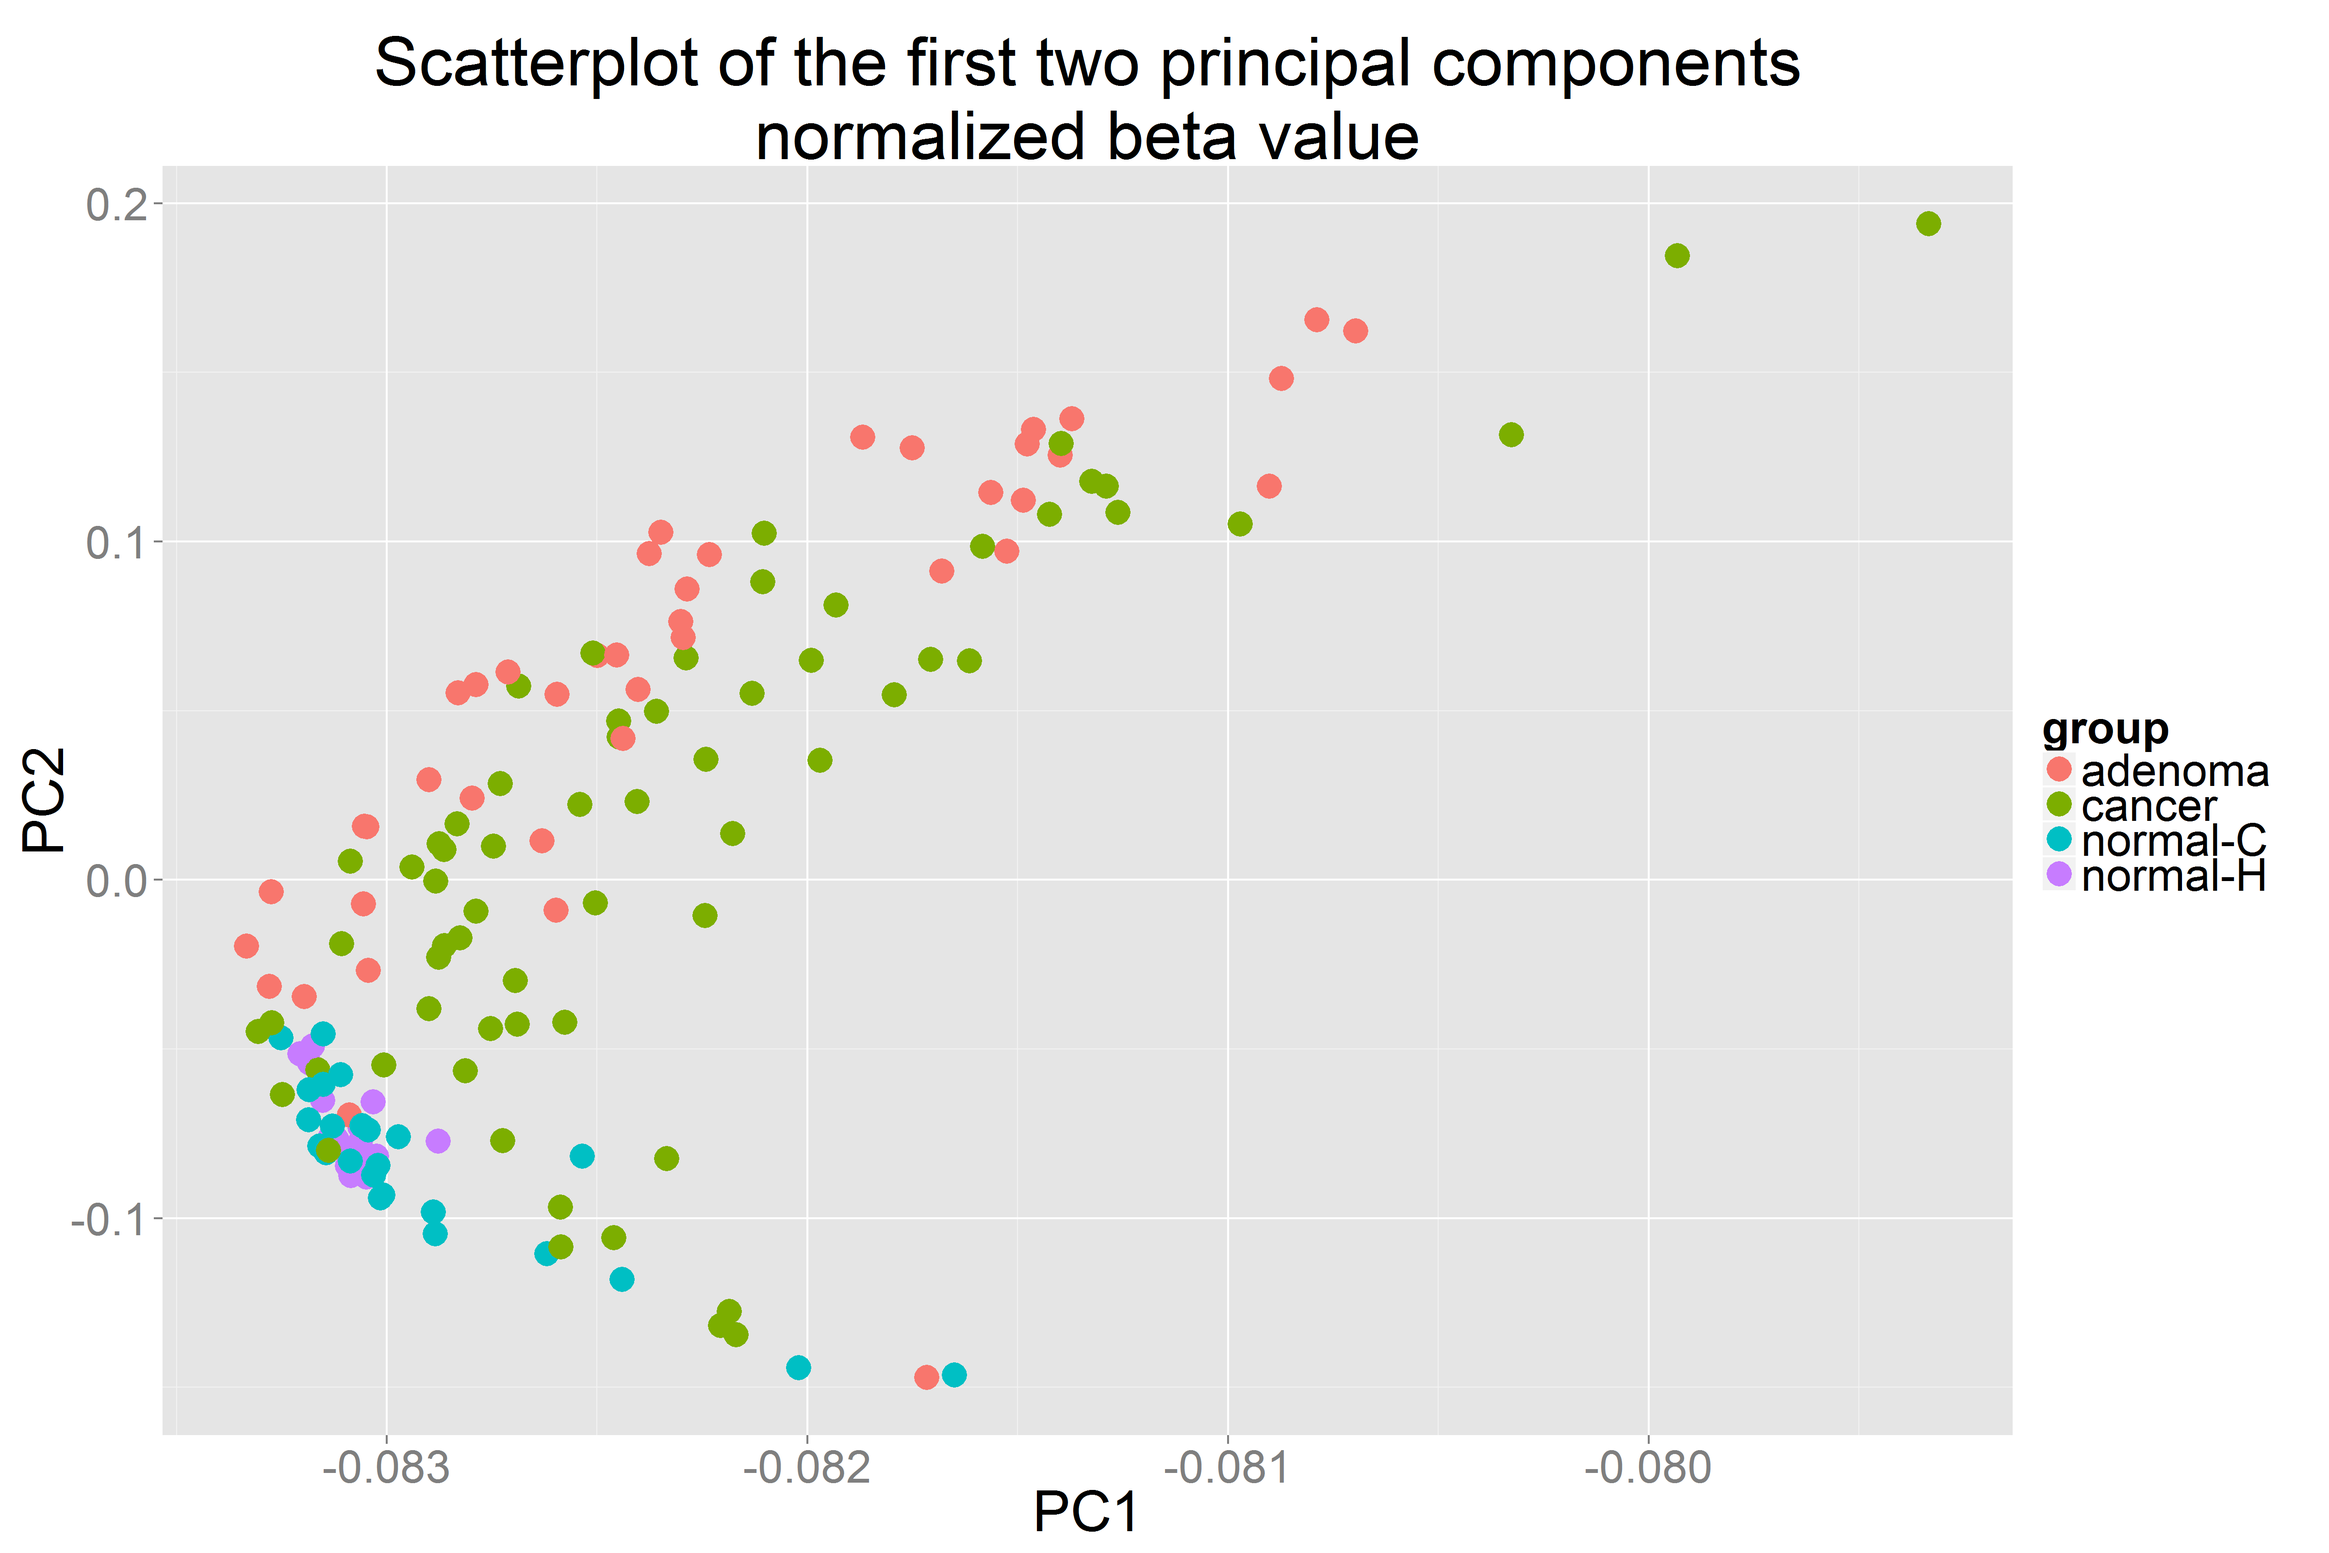
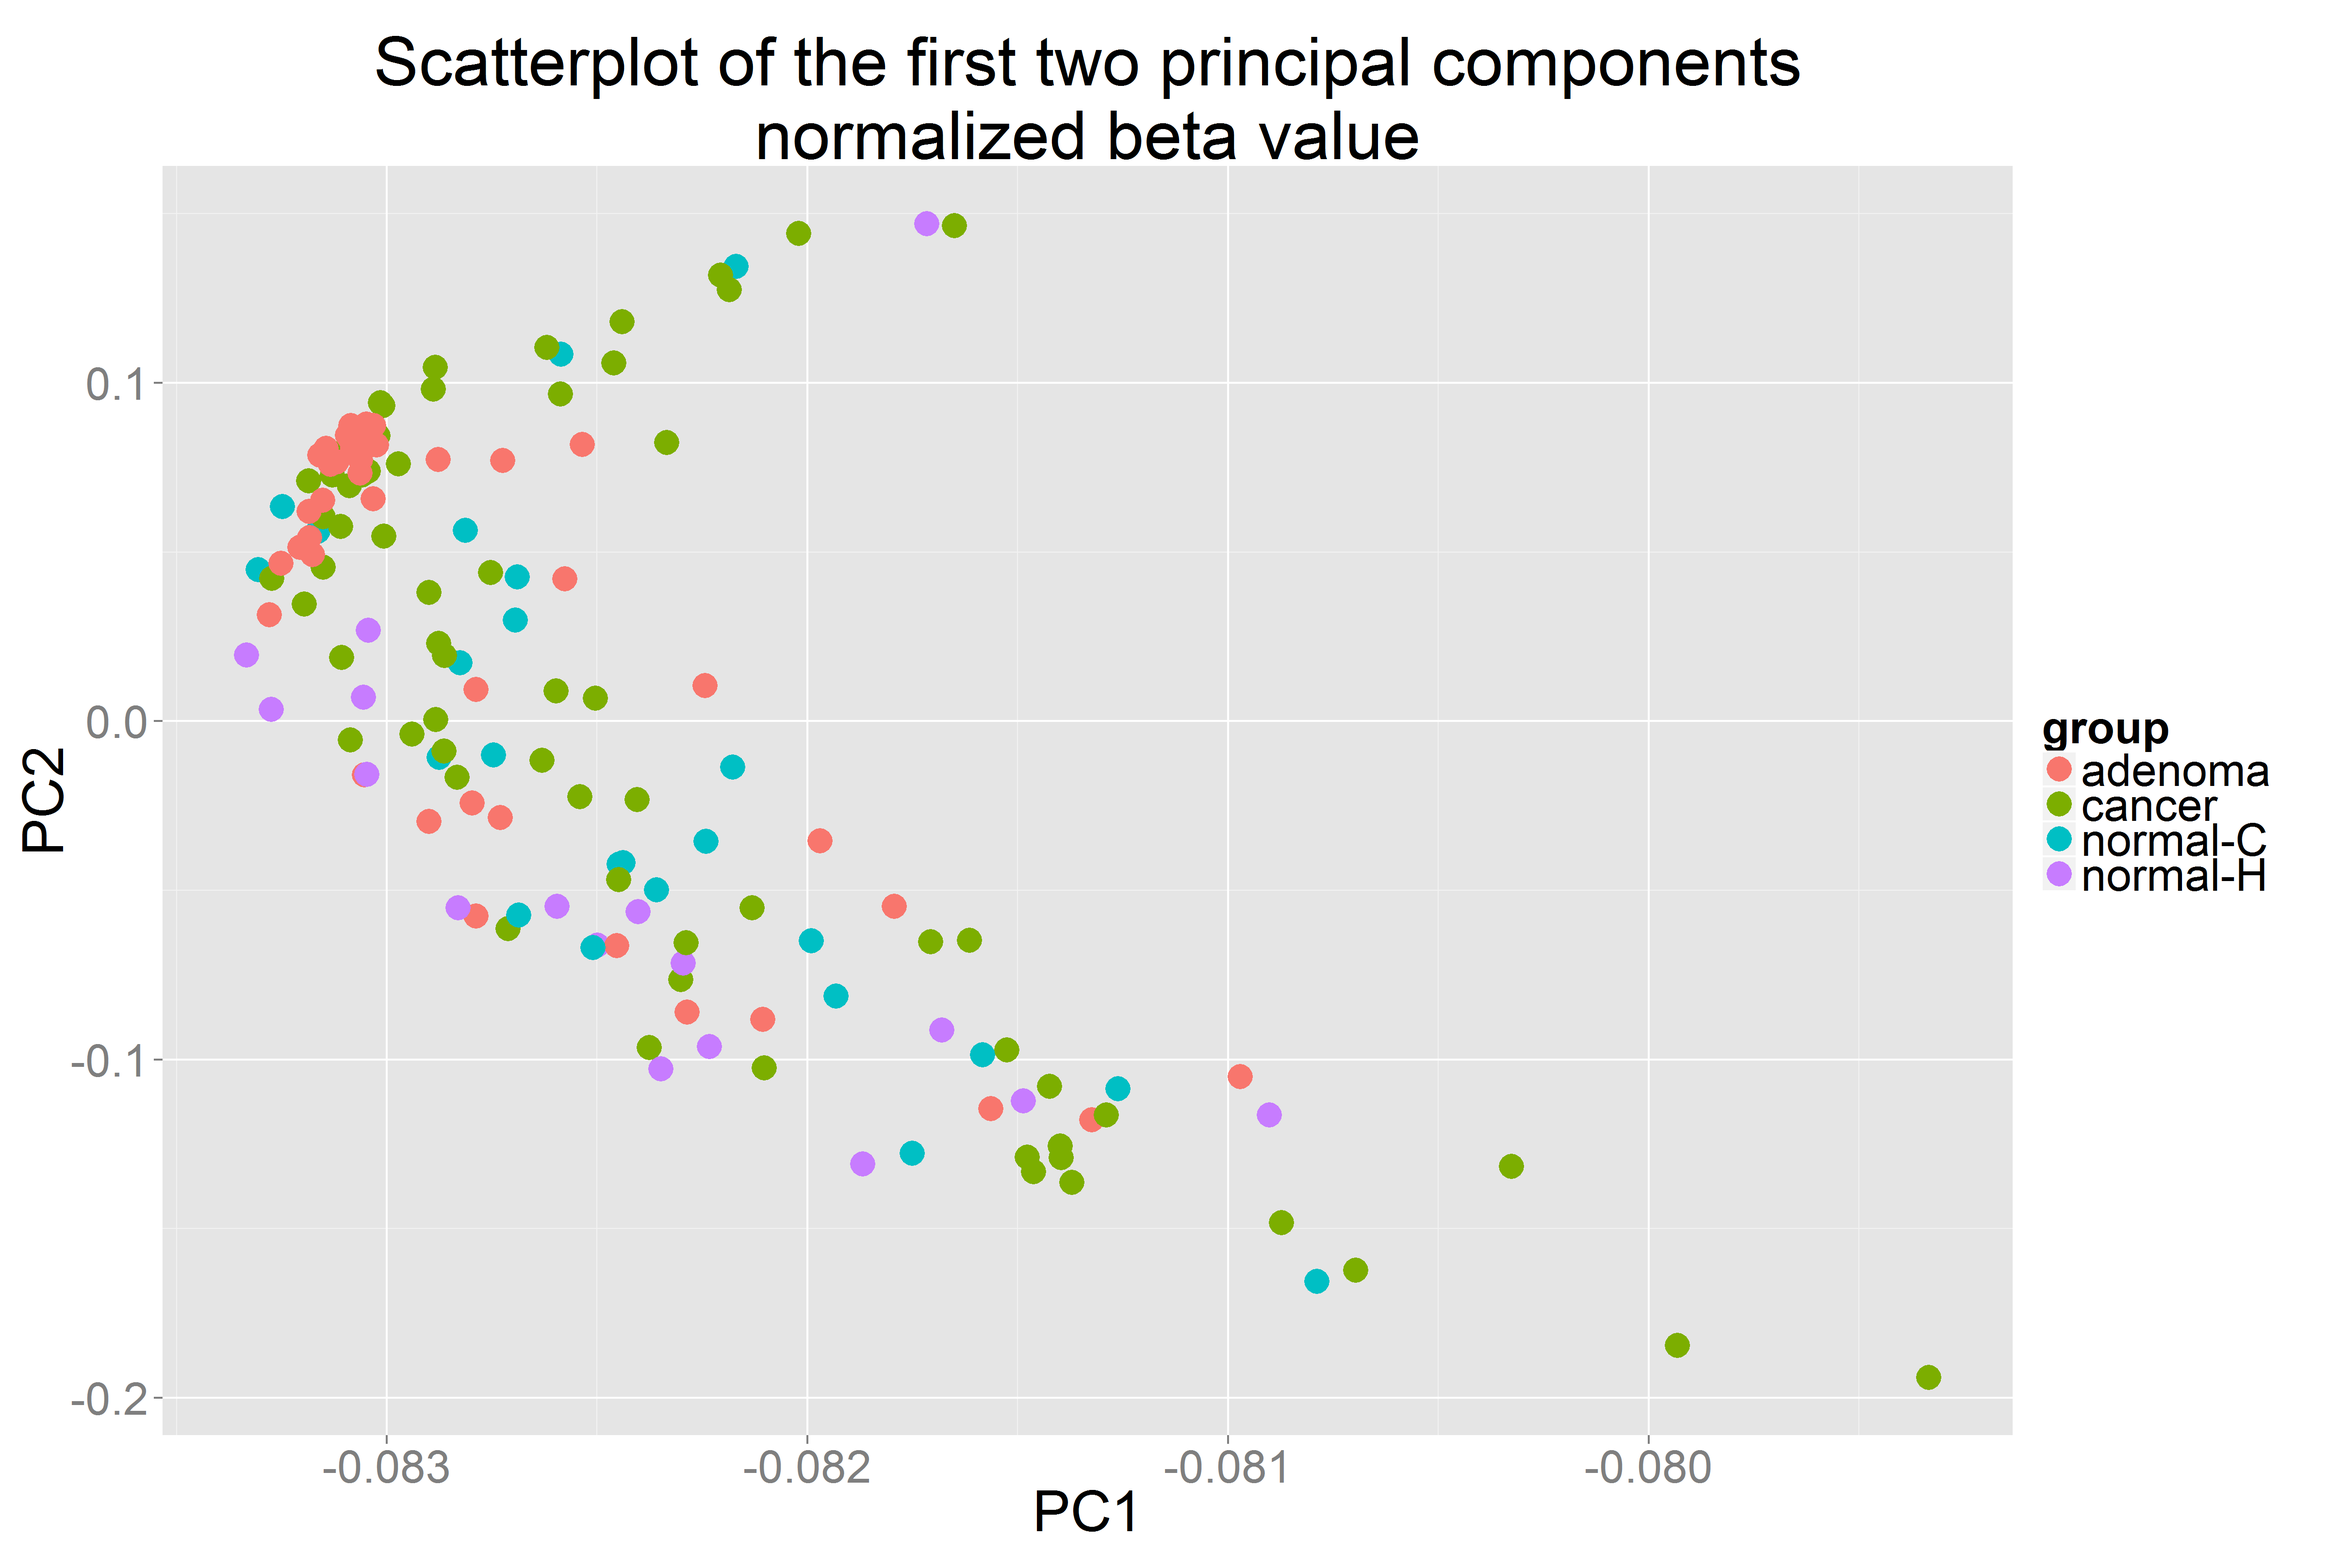
push the QC

diff --git a/analysis_reports/00dataQC_PCA/DataQC_PCA.md b/analysis_reports/00dataQC_PCA/DataQC_PCA.md
@@ -32,6 +32,9 @@ To inspect the datasets that we have so far, check the number of NAs.
 checkNA <- function(df){
   length(which(is.na(df) == T))
 }
+order_by_group <- metadata$geo_accession[order(metadata$group, 
+																							 metadata$colon_region)]
+
 
 # raw data, probes filtered
 #head(raw_data_filter)
@@ -54,6 +57,8 @@ checkNA(raw_data_filter)
 ```
 
 ```r
+raw_data_filter <- raw_data_filter[, order_by_group]
+
 # normalized data
 #head(beta.norm)
 str(beta.norm)
@@ -75,6 +80,8 @@ checkNA(beta.norm)
 ```
 
 ```r
+beta.norm <- beta.norm[, order_by_group]
+
 #head(beta.norm.CGI)
 str(beta.norm.CGI)
 ```
@@ -192,6 +199,8 @@ checkNA(beta.norm.CGI)
 ```
 
 ```r
+beta.norm.CGI <- beta.norm.CGI[, order_by_group]
+
 #M value transformed
 #head(M.norm)
 str(M.norm)
@@ -330,6 +339,8 @@ checkNA(M.norm.CGI)
 ```
 
 ```r
+M.norm.CGI <- M.norm.CGI[, order_by_group]
+
 # metadata
 load("../../data/metadata.Rdata")
 head(metadata)
@@ -430,7 +441,7 @@ ggplot(data = beta_means, aes(x = avg_value, col = category)) +
 ggplot(data = beta_means, aes(x = avg_value, col = group)) +
    geom_density() + 
 		xlab("average beta value") +
-   ggtitle("Average Beta value density \nbefore and after normalization") + 
+   ggtitle("Average Beta value density distribution") + 
    theme_bw() +
 	facet_grid(category ~ .)
 ```
@@ -444,6 +455,26 @@ ggplot(data = beta_means, aes(x = avg_value, col = group)) +
 ```
 
 ![](DataQC_PCA_files/figure-html/beta_value_density_facet_by_category-1.png) 
+
+```r
+# save a large figure for poster
+p <- ggplot(data = beta_means, aes(x = avg_value, col = group)) +
+   geom_density() + 
+		xlab("average beta value") +
+   ggtitle("Average Beta value density distribution") + 
+   theme_bw() +
+	facet_grid(category ~ .) +
+	theme(text = element_text(size=28))
+ggsave(plot = p, filename = "../../figures/dataQC_beta_density.png", width = 16, height = 10.67, units = "in")
+```
+
+```
+## Warning: Removed 1 rows containing non-finite values (stat_density).
+```
+
+```
+## Warning: Removed 1 rows containing non-finite values (stat_density).
+```
 
 Aggregate for M values and plot the density for the 4 groups:
 
@@ -577,6 +608,16 @@ ggplot(df_prin_comp, aes(PC1, PC2, label = geo_accession, color = group)) +
 ```
 
 ![](DataQC_PCA_files/figure-html/pca_normalized_beta-1.png) 
+
+```r
+# save high res for figures
+p <- ggplot(df_prin_comp, aes(PC1, PC2, label = geo_accession, color = group)) +
+  geom_point(size = 6) +
+	theme(text = element_text(size=28)) +
+  ggtitle("Scatterplot of the first two principal components\nnormalized beta value")
+
+ggsave(plot = p, filename = "../../figures/dataQC_norm_beta_PCA.png", width = 16, height = 10.67, units = "in")
+```
 
 
 For M value
